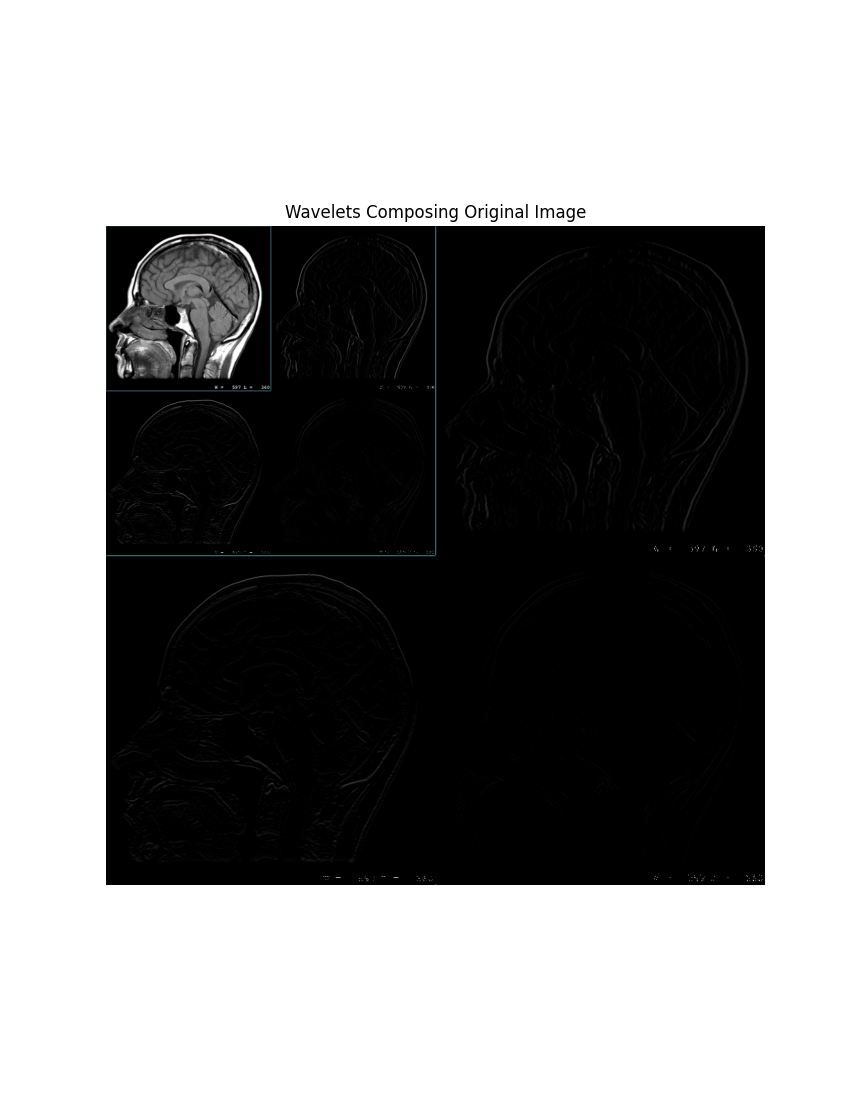
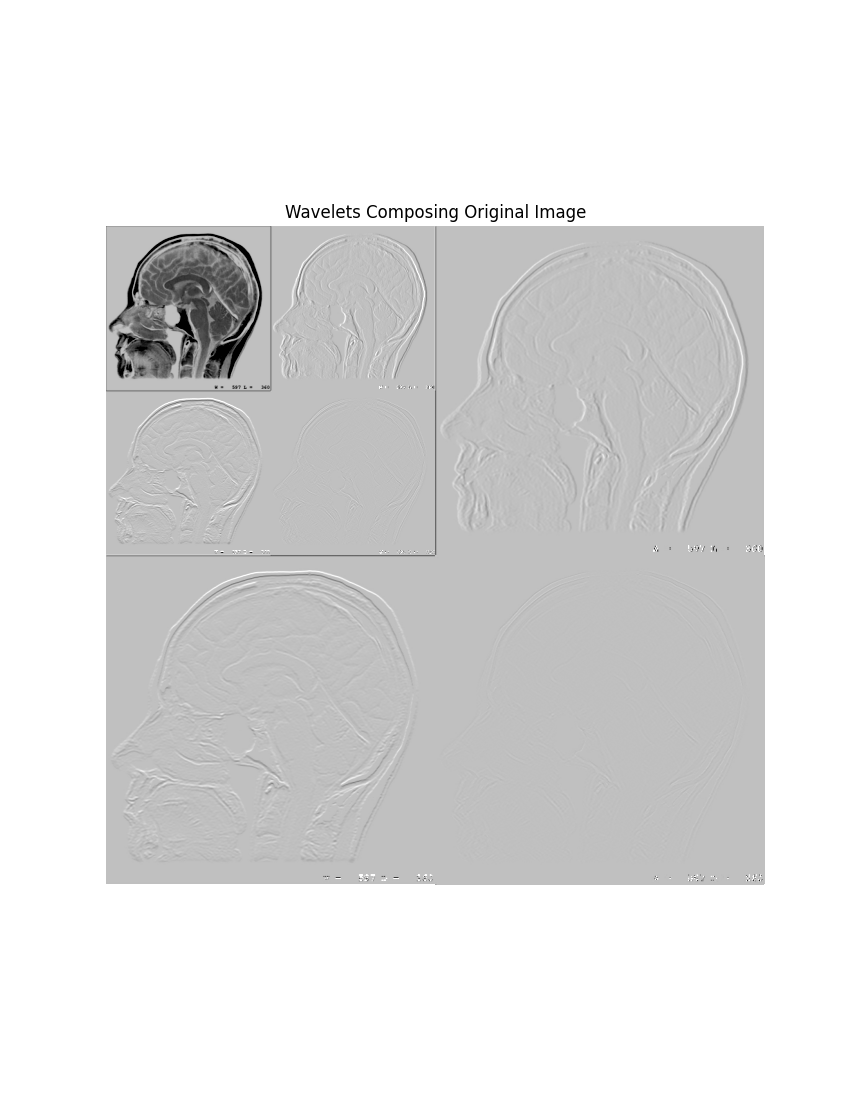
Fix composite image output, convert everything to grayscale

diff --git a/waveCompress.py b/waveCompress.py
@@ -37,49 +37,39 @@ imageIn = imread(input("Enter the input filename: "))
 imageOutCompositeName = input("Enter the save filename for composite: ")
 imageOutSideName = input("Enter the save filename for side-by-side: ")
 decompLevel = int(input("How many levels of decomposition: "))
-imageR = imageIn[:, :, 0]
-imageG = imageIn[:, :, 1]
-imageB = imageIn[:, :, 2]
 
 # Perform 2 levels of wavelet decomposition
 motherWave = 'db1'
-coeffsR = pywt.wavedec2(imageR, wavelet=motherWave, level=decompLevel)
-coeffsG = pywt.wavedec2(imageG, wavelet=motherWave, level=decompLevel)
-coeffsB = pywt.wavedec2(imageB, wavelet=motherWave, level=decompLevel)
+imageGray = np.mean(imageIn, -1)
+coeffsGray = pywt.wavedec2(imageGray, wavelet=motherWave, level=decompLevel)
+arrGray, coeffSlicesGray = pywt.coeffs_to_array(coeffsGray)
 
 # Normalize the coefficient arrays on each decomp layer
-for coeffs in [ coeffsR, coeffsG, coeffsB ] :
-	coeffs[0] /= np.abs(coeffs[0]).max()
-	for layer in range(decompLevel) :
-		coeffs[layer + 1] = [d/np.abs(d).max() for d in coeffs[layer + 1]]
-
-arrR, coeffSlicesR = pywt.coeffs_to_array(coeffsR)
-arrG, coeffSlicesG = pywt.coeffs_to_array(coeffsG)
-arrB, coeffSlicesB = pywt.coeffs_to_array(coeffsB)
+coeffsGray[0] /= np.abs(coeffsGray[0]).max()
+for layer in range(decompLevel) :
+	coeffsGray[layer + 1] = [d/np.abs(d).max() for d in coeffsGray[layer + 1]]
+arrGray, coeffSlicesGray = pywt.coeffs_to_array(coeffsGray)
 
 # Render our grid image, with base waves big on bottom and higher layers
-# smaller on top
-# plt.imshow(arrGray,cmap='gray_r',vmin=-0.25,vmax=0.75)
-# Set up our pretty output
+# smaller on top, and set up our pretty output
 fig = plt.figure(figsize=(8.5, 11))
 plt.axis('off')
 plt.title("Wavelets Composing Original Image")
 plt.rcParams['figure.figsize'] = [16, 16]
-plt.imshow(np.dstack((arrR, arrG, arrB)))
+plt.imshow(arrGray, cmap='gray_r', vmin=-0.25, vmax=0.75)
 fig.savefig(imageOutCompositeName)
 
 # Render multiple compression levels for comparison
-imageGray = np.mean(imageIn, -1)
+coeffSorted = np.sort(np.abs(arrGray.reshape(-1)))
 coeffsGray = pywt.wavedec2(imageGray, wavelet=motherWave, level=4)
 arrGray, coeffSlicesGray = pywt.coeffs_to_array(coeffsGray)
-coeffSorted = np.sort(np.abs(arrGray.reshape(-1)))
 
 # Make our output nice and pretty
 fig = plt.figure(figsize=(8.5, 11))
 fig.add_subplot(3, 2, 1)
 plt.axis('off')
 plt.title("Original")
-plt.imshow(imageGray, cmap='gray_r', vmin=-0.25, vmax=0.75)
+plt.imshow(imageGray, cmap='gray_r')
 
 # Loop through all the compression ratios we want and print them out
 kept = [ 0.1, 0.01, 0.005, 0.0025, 0.0015 ]
@@ -97,6 +87,6 @@ for plot in range(5) :
 	# plt.rcParams['figure.figsize'] = [8, 8]
 	# plt.rcParams.update({'font.size': 18})
 	plt.title('Coefficients kept: ' + str(100*kept[plot]) + '%')
-	plt.imshow(reconstruction, cmap='gray')
+	plt.imshow(reconstruction, cmap='gray_r')
 fig.tight_layout()
 fig.savefig(imageOutSideName)
